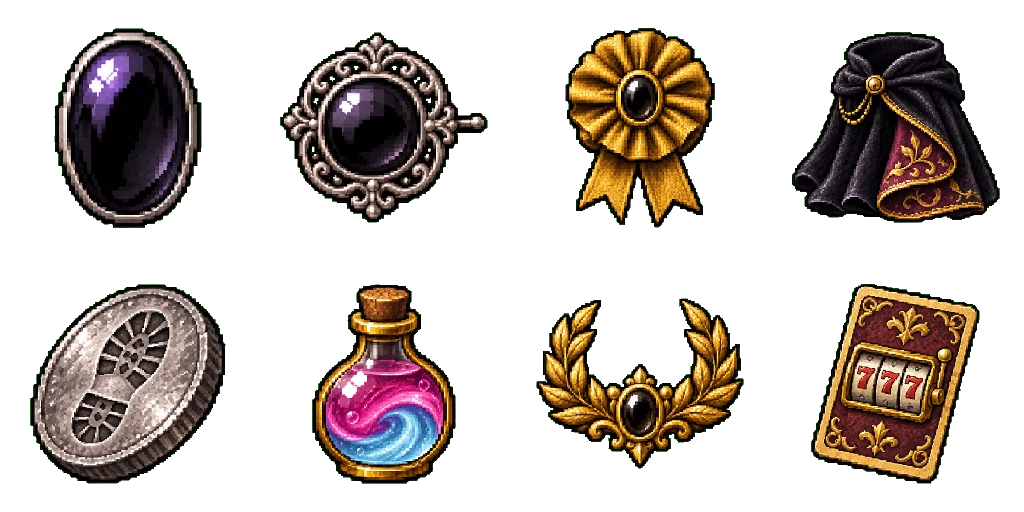
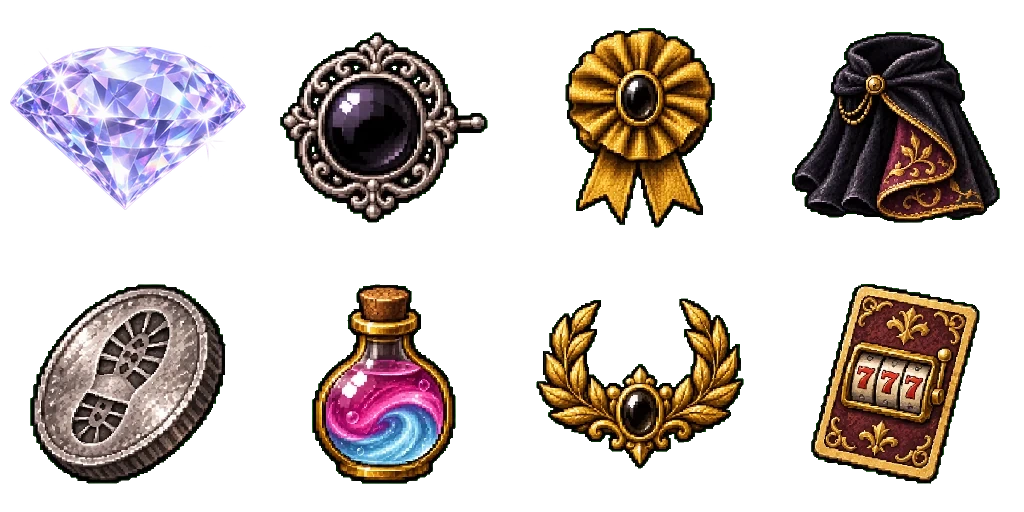
오닉스 아이콘을 사용자가 준 보랏빛 다이아몬드 그림으로 바꾼다
Claude-Session: https://claude.ai/code/session_01Q8g6pXM47tyy7R2kTVt9Ji

Changed region(s): [[0.0, 0.0312, 0.25, 0.4688]]

diff --git a/src/game/onyxData.js b/src/game/onyxData.js
@@ -7,7 +7,7 @@
 export const ONYX = {
   name: "오닉스",
   max: 9999999,            // 가질 수 있는 최대(정한 값)
-  icon: "/assets/game/rpg/onyx/icons.webp",   // 4 × 2 칸 아이콘 시트(Codex) — 칸 차례는 OX_ICON
+  icon: "/assets/game/rpg/onyx/icons.webp",   // 4 × 2 칸 아이콘 시트(Codex, 0번 오닉스만 사용자 그림) — 칸 차례는 OX_ICON
   cell: 256,
 };
 // 아이콘 시트 칸 — 0 오닉스 · 1 흑옥 브로치 · 2 단골 배지 · 3 벨벳 망토 · 4 은화 발자국 · 5 성전환 물약 · 6 칭호 메달 · 7 도파민

diff --git a/public/assets/game/README.md b/public/assets/game/README.md
@@ -228,4 +228,4 @@ python3 tools/png-to-webp.py             # public/assets/game 에 WebP 와 manif
 - `rpg/illusion-quest/*.webp`(11월 23일, Illusionist 005 획득 루트 · 테스트 서버 전용) — Codex 그림. `doors`(2열 × 5줄, 칸 512×256, 발 = 칸 아래 가운데 — 왼쪽 닫힘 · 오른쪽 열림, 줄: 나무문 · 거울문 · 장막 · 무대 아래 문 · 유리 진열장) · `people`(3칸 512 — 길잡이 · 상인 · 마지막 관객). 바닥 `rpg/story/ground/iq_*.webp` 11장(1536×1024, 맵 2400×1600 에 늘림. `iq_mirror` 는 `iq_real` 을, `iq_under` 는 `iq_store` 를 뒤집어 색을 바꾼 것). 작은 원본 `design/illusion-quest/`. 그리기 `illusionQuestArt.js`, 못 불러오면 코드 도형.
 - `rpg/wyvern-quest/*.webp`(11월 23일, Wyvern Knight 006 획득 루트 · 테스트 서버 전용) — Codex 그림, 바닥과 따로 뽑은 열림 · 닫힘 낱장(칸 512×512, 발 = 칸 아래 가운데, 왼쪽 닫힘 · 오른쪽 열림). `gates`(2열 × 3줄: 신전 돌문 · 시련의 문 · 맹세의 문 용 석상) · `props`(2열 × 3줄: 제단 빈 · 불씨 · 석등 꺼짐 · 켜짐 · 용 석상 고요 · 포효) · `rocks`(2열 × 2줄: 이끼 바위 · 금 간 가운데 바위 · 열린 틈 · 이끼 바위). 바닥 `rpg/story/ground/wq_*.webp` 7장(1536×1024, 맵 2400×1600 에 늘림). 작은 원본 `design/wyvern-quest/`. 그리기 `wyvernQuestArt.js`, 못 불러오면 코드 도형. 잠든 용 `sleeping-dragon.webp`(11월 25일 사용자 그림, 투명 낱장 1024 폭 · 발 = 아래 가운데, 게임은 1150 폭으로 좌우 뒤집어 그림, `design/wyvern-quest/sleeping-dragon.py` 로 다시 만든다 — 못 불러오면 예전 와이번 몸).
 
-오닉스 · 황금 진열장 상점(11월 27일, Codex): `rpg/onyx/icons.webp` 4 × 2 칸(칸 256, 차례 `onyxData.js OX_ICON` — 오닉스 · 흑옥 브로치 · 단골 배지 · 벨벳 망토 · 은화 발자국 · 성전환 물약 · 칭호 메달 · 도파민 카드). `rpg/onyx/cape.webp` 3 × 2 칸(칸 256 × 384, 깃 기준점 128 · 110, 키 299 그림 기준 — 앞 서기 · 앞 걷기 · 옆 서기 / 옆 걷기 · 뒤 서기 · 뒤 걷기). 감정사 `rpg/npc/shop-onyx.webp`. 초록 바탕 원본은 `design/onyx/`, 바탕 지우기는 `python3 tools/key-green.py`.
+오닉스 · 황금 진열장 상점(11월 27일, Codex): `rpg/onyx/icons.webp` 4 × 2 칸(칸 256, 차례 `onyxData.js OX_ICON` — 오닉스 · 흑옥 브로치 · 단골 배지 · 벨벳 망토 · 은화 발자국 · 성전환 물약 · 칭호 메달 · 도파민 카드). `rpg/onyx/cape.webp` 3 × 2 칸(칸 256 × 384, 깃 기준점 128 · 110, 키 299 그림 기준 — 앞 서기 · 앞 걷기 · 옆 서기 / 옆 걷기 · 뒤 서기 · 뒤 걷기). 감정사 `rpg/npc/shop-onyx.webp`. 0번 오닉스 칸은 11월 27일 사용자 그림(`design/onyx/onyx-user.png`, 둘레 반짝이 점을 빼고 폭 236 으로 줄여 가운데). 나머지 칸의 초록 바탕 원본은 `design/onyx/`, 바탕 지우기는 `python3 tools/key-green.py`.
